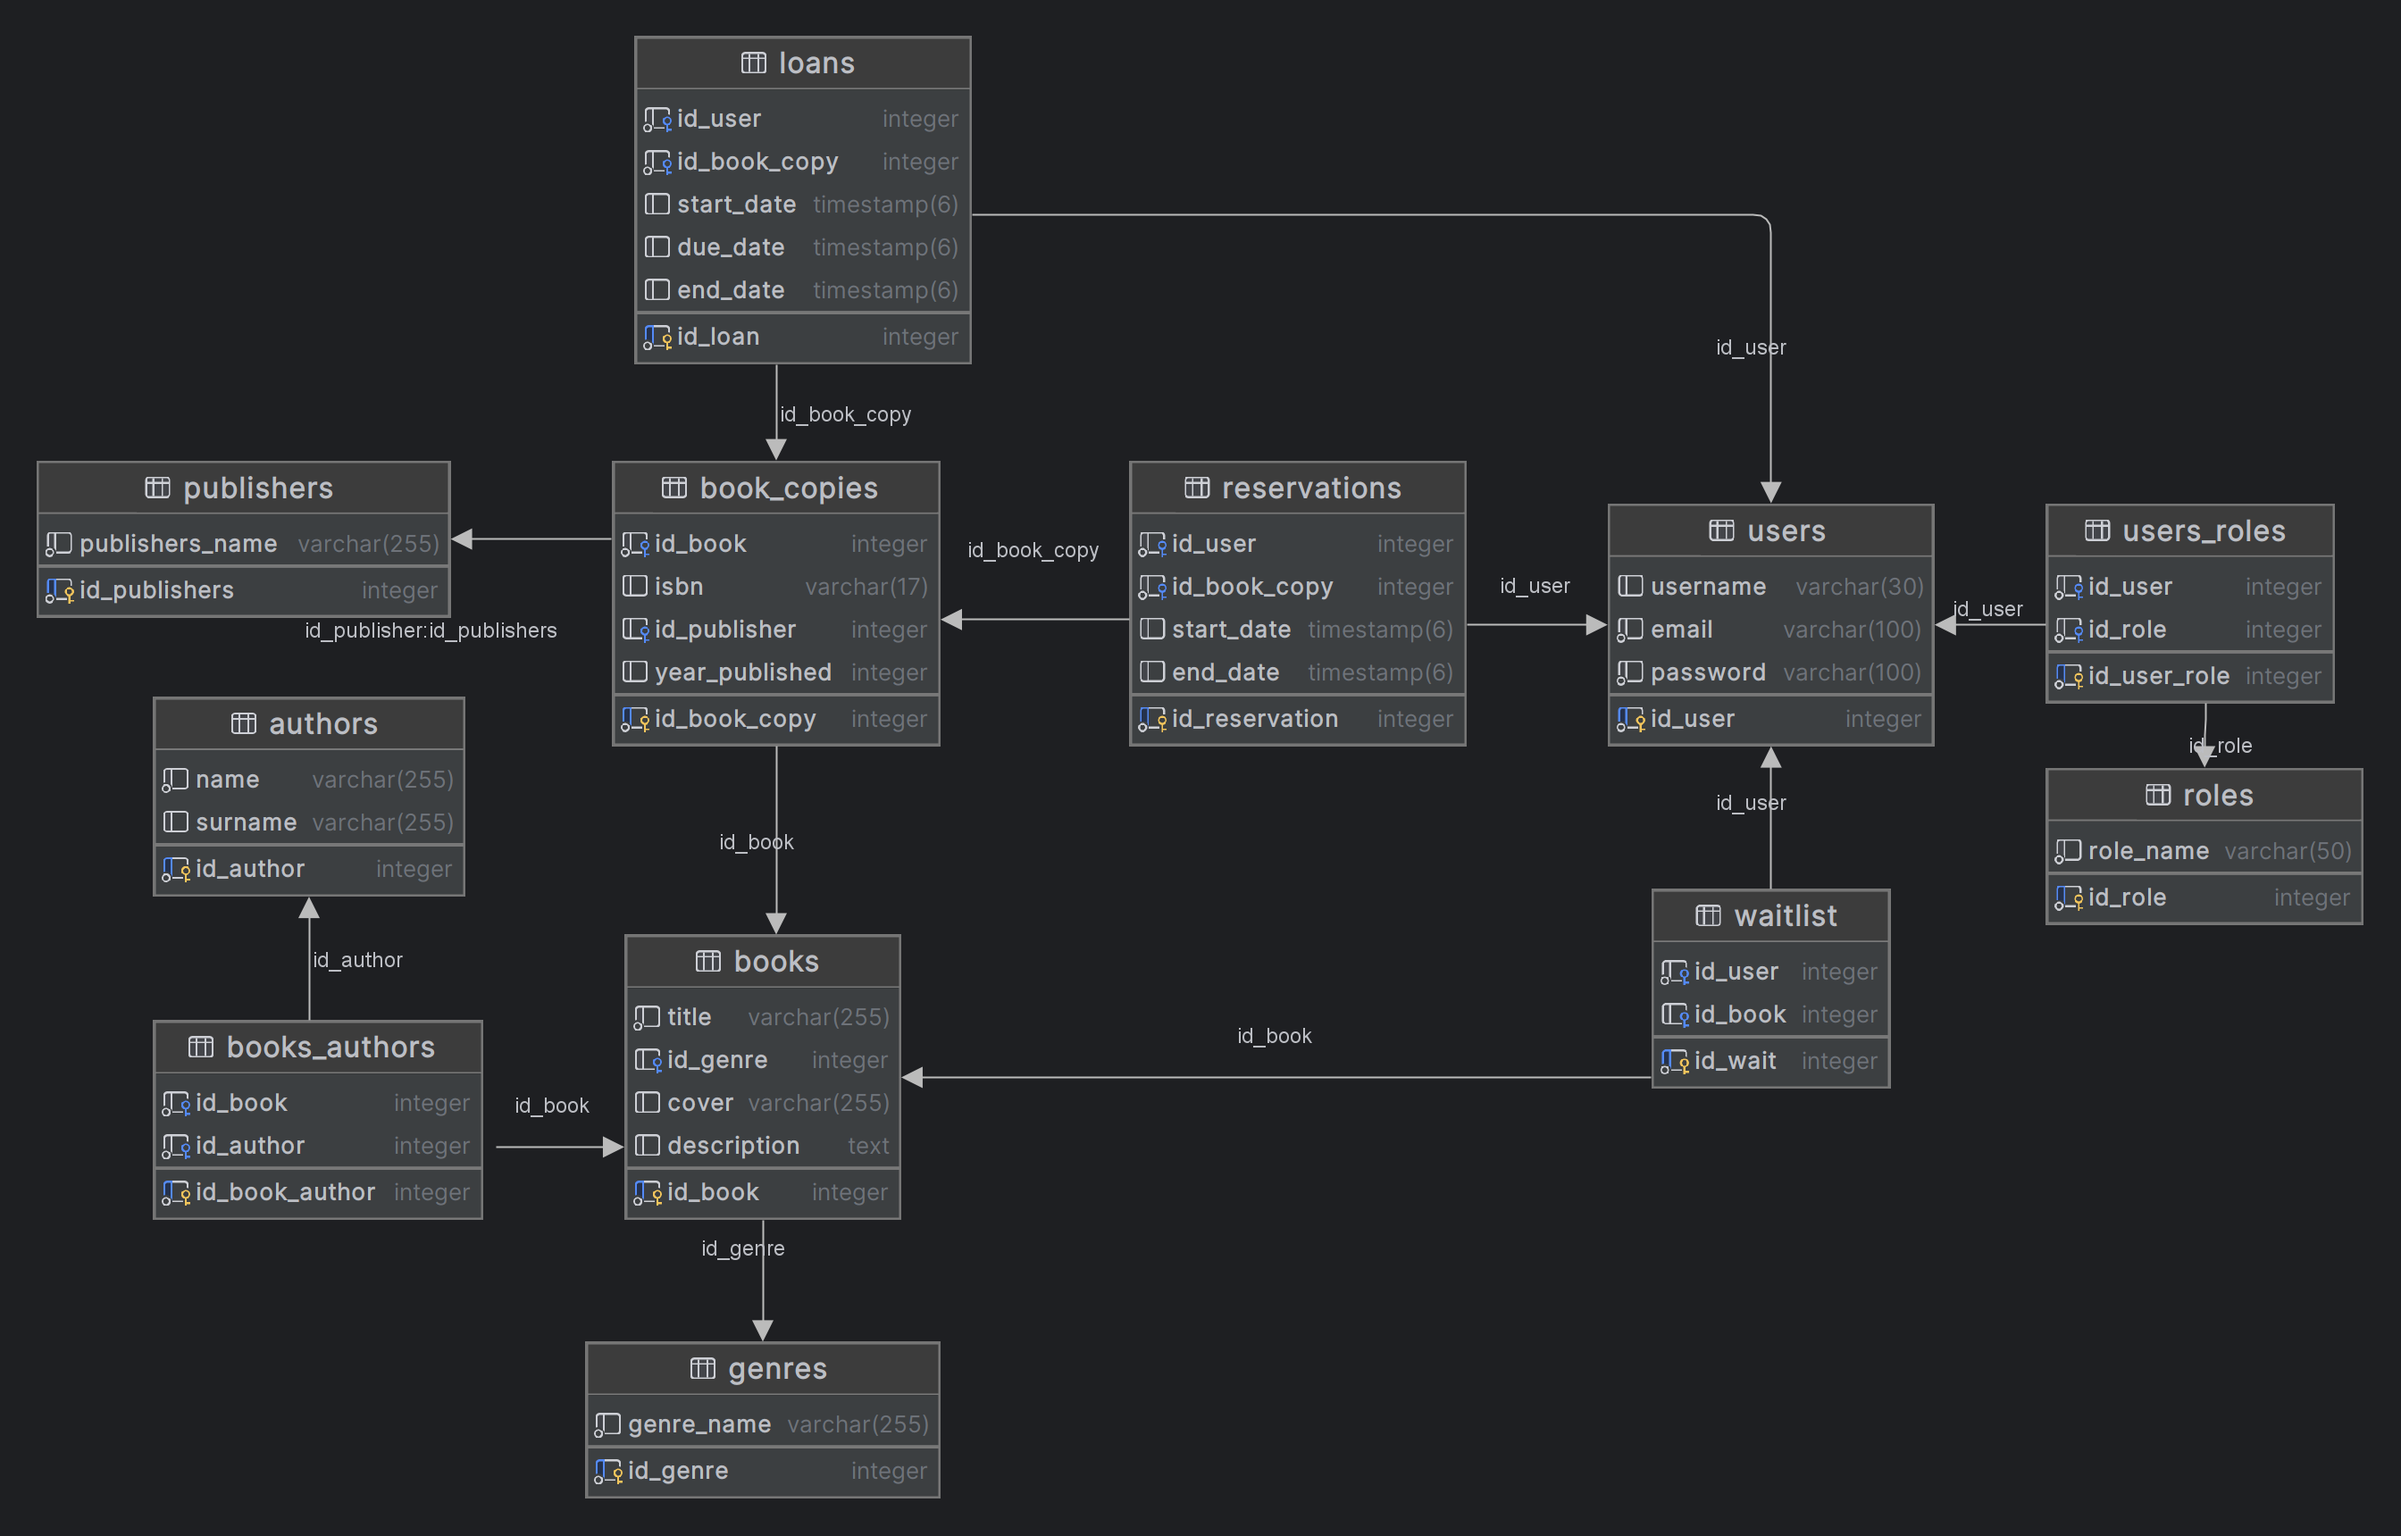
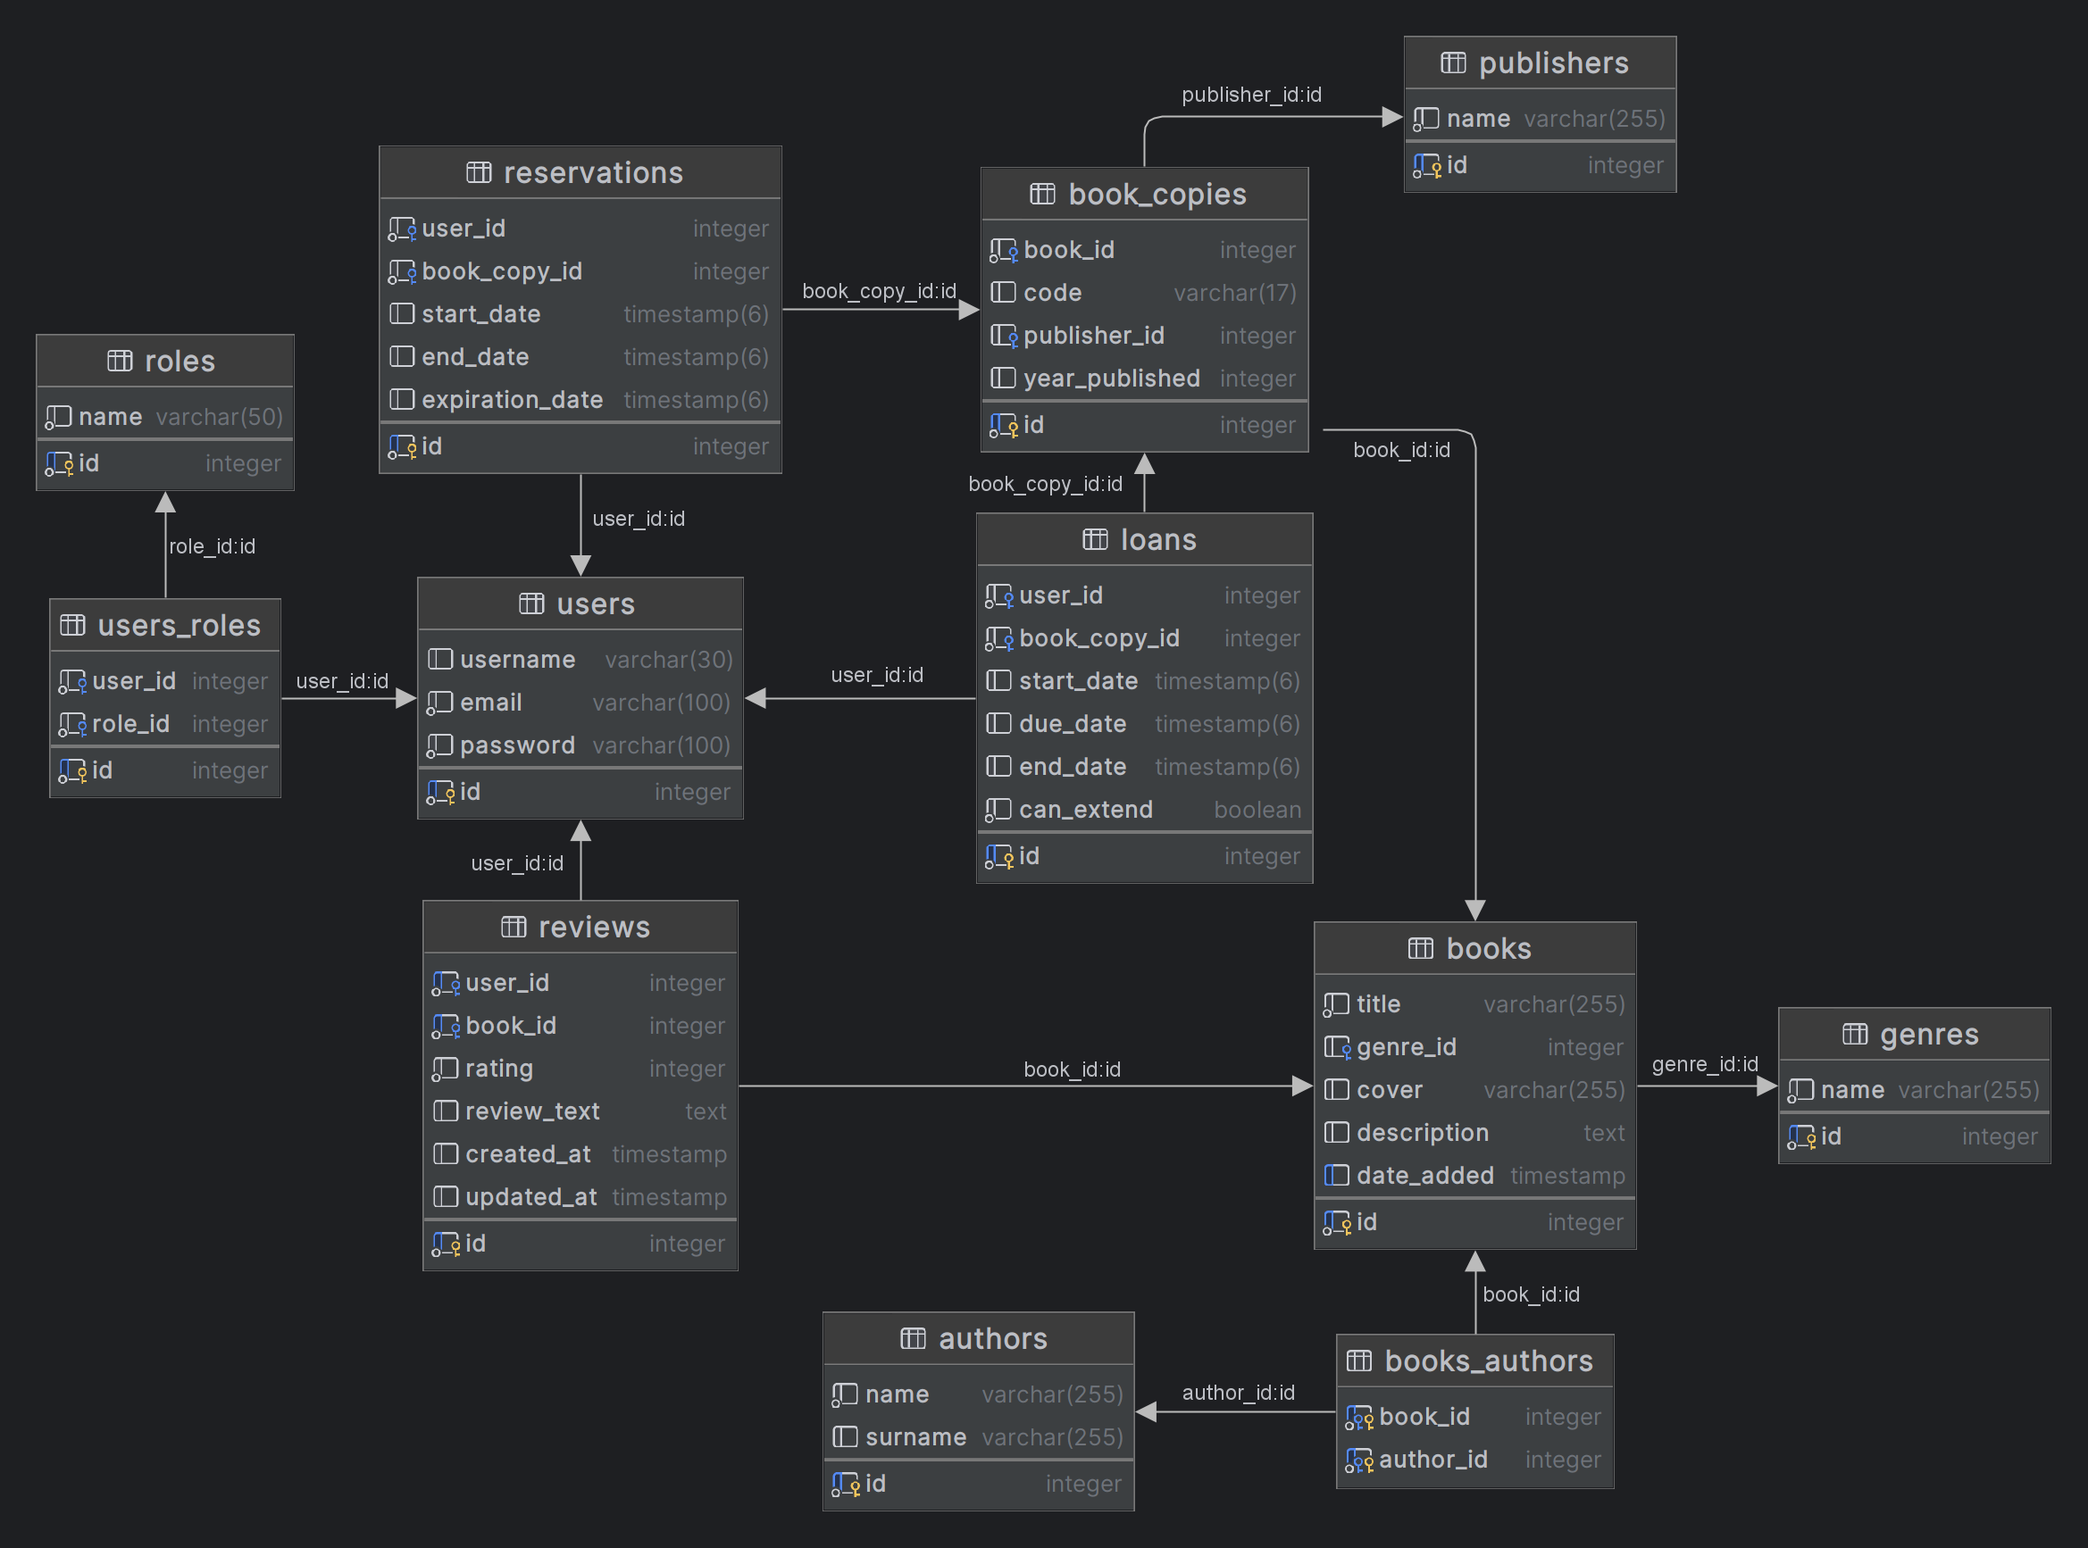
feat: update README.md

diff --git a/README.md b/README.md
@@ -1,63 +1,77 @@
-# Biblioteka-ZTPAI
-## Contents
-* Introduction
-* Used technologies
-* ERD Diagram
-* Features
-* Getting Started
+# Library Management System
+## Overview
 
-## Introduction
-The repository contains an implementation of a project called "BiblioSolis". BiblioSolis is a library web application for reserving and borrowing books.
+Library Management System is a full-stack web application designed to support the management of library processes, including book reservations, loans, and user administration. The system was developed as an engineering thesis project and follows a client–server architecture.
 
-## Used technologies
-Spring Boot
-- Spring Boot was chosen for its comprehensive support in building web applications. It offers seamless SQL database integration (e.g., PostgreSQL) via Spring Data JPA, robust security with Spring Security. Its extensive documentation and wide community support significantly ease development and troubleshooting.
+The system supports role-based access control, JWT authentication, REST API communication, and responsive user interfaces.
 
-Postgres
-- strong open-source database, with community support, robust performance, and extensive features. It also excels in data integrity through ACID compliance, extensibility through various extensions and data types, and scalability.
+# Features
 
-RabbitMQ
-- The message queuing system will enable asynchronous data processing and efficient management of tasks performed in the background.
+## User Features
 
-pgAdmin
-- Selected for easy and complete management of Postgres database
+- User registration and login
+- JWT-based authentication
+- Browse and search the library catalog
+- Filter and sort books list
+- View book details and availability
+- Reserve books
+- Cancel reservations
+- View active reservations and loans
+- Request loan extension
+- Rate and review books
 
-React
-- React was selected for its high performance with dynamic data thanks to the virtual DOM, and for its modularity enabled by functional components and hooks. It allows easy communication with a Spring Boot backend via Fetch API or Axios. Additionally, its large community, extensive tutorials, and ready-made components accelerate development.
+## Administrator Features
 
-## ERD Diagram
+- Access to administrative endpoints
+- Add, edit or delete book information
+- Add, edit or delete book copy information
+- Manage user's active reservations and loans
+- Confirm reservations and loan books
+- Register returned books
+
+# Technologies Used
+
+## Backend
+
+- Java 17
+- Spring Boot
+- PostgreSQL
+- Maven
+- JUnit 5
+
+## Frontend
+
+- React
+- JavaScript
+- Vite
+- CSS
+- HTML
+
+## DevOps & Tools
+
+- Docker
+- Git & GitHub
+- Figma
+
+# System Architecture
+
+The application follows a client–server architecture:
+
+- **frontend** - React application responsible for the user interface.
+- **backend** - REST API built with Spring Boot.
+- **PostgreSQL database** - relational database that stores application data.
+- Docker containers allow simplified deployment and environment consistency.
+
+Communication between frontend and backend is handled through HTTP requests using a REST API.
+
+### Database ERD Diagram
 ![ERD](ERD.png)
 
-## Features
-
-1. **Registration**
-    - User can register to the service.
-
-2. **JWT Authentication**
-    - Session and authentication is managed by JWT token.
-
-3. **RabbitMQ Integration**
-    - After registration a message gets sent to user email.
-
-4. **Browsing the library catalog**
-    - User can browse the wide library catalog.
-
-5. **Reserving books by user**
-    - Users can create reservations on chosen book to borrow it later.
-
-6. **Loaning books by admin**
-    - Admin can loan a book to user who reserved a book.
-
-7. **Returning books by admin**
-    - Admin can set returned book to be available again
-
-## Getting Started
+## Running the Application
 
 ### Prerequisites
 You need the following installed on your computer to run this application:
 - Docker.
-- Java 17 or higher installed.
-- Node.js.
 
 ### Clone the repository
 
@@ -65,7 +79,7 @@ You need the following installed on your computer to run this application:
 git clone https://github.com/PatMag9/Biblioteka-ZTPAI
 ```
 
-##### Build and Run the Application
+### Build and Run the Application
 navigate to application root folder
 ```bash
 cd Biblioteka-ZTPAI
